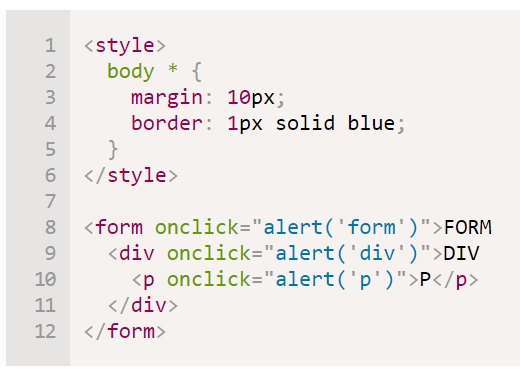
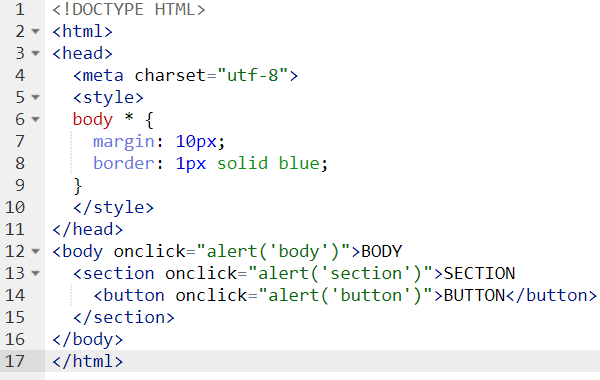
fix: fixed mistake

Changed region(s): [[0.0, 0.0, 1.0, 0.9732], [0.0308, 0.0, 0.0615, 0.0295]]

diff --git a/index.html b/index.html
@@ -87,12 +87,12 @@
 				</section>
 				<section>
 					<p><strong>Bubbling. Classic example</strong></p>
-					<p>Let’s say we have 3 nested elements <span class="wrapperGray">FORM > DIV > P</span> with a handler on each of them:</p>
+					<p>Let’s say we have 3 nested elements <span class="wrapperGray">BODY > SECTION > BUTTON</span> with a handler on each of them:</p>
 					<div><img src="./img/FormDivP.png" alt="HTMLAttribute:" style="border:0;"></div>
 					<div><img src="./img/classic buble.png" alt="HTMLAttribute:" style="border:0;"  width="400" height="250"></div>	
 				</section>	
 				<section>
-					<p class="wrapperCentr">	So if we click on then we’ll see 3 alerts:<span class="wrapperGray">p → div → form.</span> </p>
+					<p class="wrapperCentr">	So if we click on then we’ll see 3 alerts:<span class="wrapperGray">button → section → body.</span> </p>
 					<div class="wrapperCentr"><img src="./img/MostDeeply.png" alt="HTMLAttribute:" style="border:0;"></div>
 					<p class="wrapperCentr">The process is called “bubbling”, because events “bubble” from the inner element up through parents like a bubble in the water.</p>
 				</section>
@@ -119,7 +119,7 @@
 					</div>
 				</section>
 				<section>
-					<div class="fragment wrapperCentr"><img src="./img/batareika.png" alt="DOMElementProperty" style="border:0;" width="650" height="650"></div>
+					<div><img src="./img/batareika.png" alt="DOMElementProperty" style="border:0;" width="650" height="650"></div>
 				</section>	
 				<section>
 					<p  class="wrapperCentr"><strong>Classic example</strong></p>
@@ -137,9 +137,9 @@
 					<div><img src="./img/youtubeHTML.png" alt="youtubeHTML" style="border:0;"></div>
 				</section>
 				<section>
-					<p>DOM Element Property:</p>					
+					<p>addEventListener:</p>					
 					<div><img src="./img/youtubeAddEvent.png" alt="youtubeAddEvent"></div>
-					<p>JS code:</p>
+					<p>Handler:</p>
 					<div><img src="./img/youtubeCode.png" alt="youtubeCode"></div>
 				</section>
 				<section >
